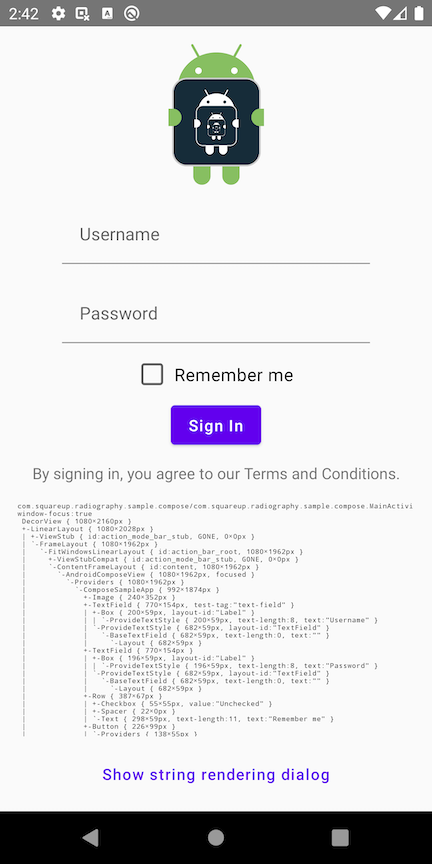
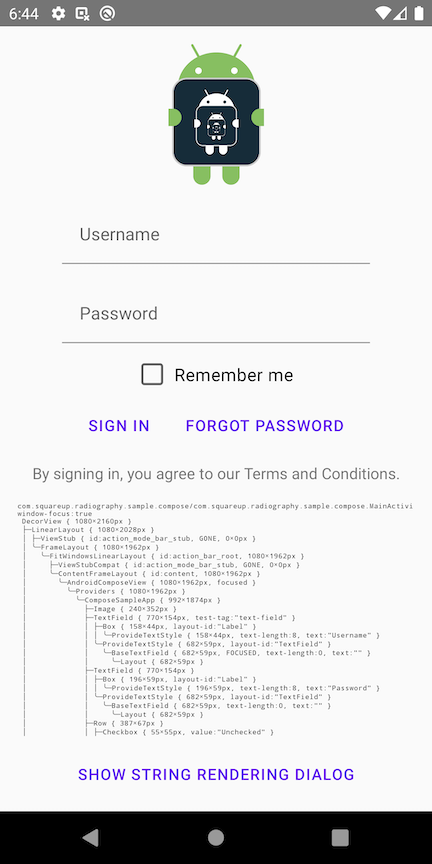
Add a ForgotPassword button, make Android sample use nested layouts instead of ConstraintLayout.
This gives more interesting output.

diff --git a/sample-compose/src/main/java/com/squareup/radiography/sample/compose/ComposeSampleApp.kt b/sample-compose/src/main/java/com/squareup/radiography/sample/compose/ComposeSampleApp.kt
@@ -19,7 +19,6 @@ import androidx.compose.foundation.layout.Spacer
 import androidx.compose.foundation.layout.height
 import androidx.compose.foundation.layout.padding
 import androidx.compose.foundation.layout.width
-import androidx.compose.material.Button
 import androidx.compose.material.Checkbox
 import androidx.compose.material.MaterialTheme
 import androidx.compose.material.TextButton
@@ -41,6 +40,7 @@ import androidx.compose.ui.text.input.PasswordVisualTransformation
 import androidx.compose.ui.unit.dp
 import androidx.compose.ui.unit.sp
 import androidx.compose.ui.viewinterop.AndroidView
+import androidx.ui.tooling.preview.Preview
 import com.squareup.radiography.sample.compose.R.drawable
 import radiography.Radiography
 import radiography.ScanScopes.FocusedWindowScope
@@ -55,6 +55,11 @@ import radiography.compose.ExperimentalRadiographyComposeApi
 
 internal const val TEXT_FIELD_TEST_TAG = "text-field"
 internal const val LIVE_HIERARCHY_TEST_TAG = "live-hierarchy"
+
+@Preview(showBackground = true, showDecoration = true)
+@Composable fun ComposeSampleAppPreview() {
+  ComposeSampleApp()
+}
 
 @OptIn(ExperimentalRadiographyComposeApi::class, ExperimentalAnimationApi::class)
 @Composable fun ComposeSampleApp() {
@@ -92,9 +97,16 @@ internal const val LIVE_HIERARCHY_TEST_TAG = "live-hierarchy"
         Spacer(Modifier.width(8.dp))
         Text("Remember me")
       }
-      Button(onClick = {}) {
-        Text("Sign In")
+
+      Row(horizontalArrangement = Arrangement.spacedBy(16.dp)) {
+        TextButton(onClick = {}) {
+          Text("SIGN IN")
+        }
+        TextButton(onClick = {}) {
+          Text("FORGOT PASSWORD")
+        }
       }
+
       // Include a classic Android view in the composition.
       AndroidView(::TextView) {
         @SuppressLint("SetTextI18n")
@@ -114,7 +126,7 @@ internal const val LIVE_HIERARCHY_TEST_TAG = "live-hierarchy"
         }
       }
       TextButton(onClick = { showSelectionDialog(context) }) {
-        Text("Show string rendering dialog")
+        Text("SHOW STRING RENDERING DIALOG")
       }
 
       onCommit {

diff --git a/README.md b/README.md
@@ -62,13 +62,15 @@ window-focus:false
  ├─LinearLayout { 1080×2028px }
  │ ├─ViewStub { id:action_mode_bar_stub, GONE, 0×0px }
  │ ╰─FrameLayout { id:content, 1080×1962px }
- │   ╰─ConstraintLayout { id:main, 1080×1962px }
+ │   ╰─LinearLayout { id:main, 1080×1962px }
  │     ├─ImageView { id:logo, 1080×352px }
- │     ├─EditText { id:username, 580×124px, text-length:4 }
- │     ├─EditText { id:password, 580×124px, focused, text-length:4, ime─target }
+ │     ├─EditText { id:username, 580×124px, text-length:0 }
+ │     ├─EditText { id:password, 580×124px, text-length:0 }
  │     ├─CheckBox { id:remember_me, 343×88px, text-length:11 }
- │     ├─Button { id:signin, 242×132px, text-length:7 }
- │     ├─Group { id:group, 0×0px }
+ │     ├─LinearLayout { 635×154px }
+ │     │ ├─Button { id:signin, 205×132px, text-length:7 }
+ │     │ ╰─Button { id:forgot_password, 430×132px, text-length:15 }
+ │     ├─View { 1080×812px }
  │     ╰─Button { id:show_dialog, 601×132px, text-length:23 }
  ├─View { id:navigationBarBackground, 1080×132px }
  ╰─View { id:statusBarBackground, 1080×66px }
@@ -203,7 +205,7 @@ fun skipLayoutIdsFilter(skipLayoutId: (Any) -> Boolean) = ViewFilter { view ->
 ![screenshot](assets/compose_sample_screenshot.png)
 
 ```
-com.squareup.radiography.sample/com.squareup.radiography.sample.MainActivity:
+com.squareup.radiography.sample.compose/com.squareup.radiography.sample.compose.MainActivity:
 window-focus:false
  DecorView { 1080×2160px }
  ├─LinearLayout { 1080×2028px }
@@ -217,35 +219,39 @@ window-focus:false
  │           ╰─ComposeSampleApp { 992×1874px }
  │             ├─Image { 240×352px }
  │             ├─TextField { 770×154px, test-tag:"text-field" }
- │             │ ├─Box { 158×44px, layout-id:"Label" }
- │             │ │ ╰─ProvideTextStyle { 158×44px, text-length:8 }
+ │             │ ├─Box { 200×59px, layout-id:"Label" }
+ │             │ │ ╰─ProvideTextStyle { 200×59px, text-length:8 }
  │             │ ╰─ProvideTextStyle { 682×59px, layout-id:"TextField" }
- │             │   ╰─BaseTextField { 682×59px, text-length:4 }
+ │             │   ╰─BaseTextField { 682×59px, text-length:0 }
  │             │     ╰─Layout { 682×59px }
  │             ├─TextField { 770×154px }
- │             │ ├─Box { 155×44px, layout-id:"Label" }
- │             │ │ ╰─ProvideTextStyle { 155×44px, text-length:8 }
+ │             │ ├─Box { 196×59px, layout-id:"Label" }
+ │             │ │ ╰─ProvideTextStyle { 196×59px, text-length:8 }
  │             │ ╰─ProvideTextStyle { 682×59px, layout-id:"TextField" }
- │             │   ╰─BaseTextField { 682×59px, text-length:4, FOCUSED }
+ │             │   ╰─BaseTextField { 682×59px, text-length:0 }
  │             │     ╰─Layout { 682×59px }
  │             ├─Row { 387×67px }
  │             │ ├─Checkbox { 55×55px, value:"Unchecked" }
  │             │ ├─Spacer { 22×0px }
  │             │ ╰─Text { 298×59px, text-length:11 }
- │             ├─Button { 226×99px }
- │             │ ╰─Providers { 138×55px }
- │             │   ╰─Text { 138×52px, text-length:7 }
+ │             ├─Row { 685×99px }
+ │             │ ├─TextButton { 199×99px }
+ │             │ │ ╰─Providers { 155×55px }
+ │             │ │   ╰─Text { 155×52px, text-length:7 }
+ │             │ ╰─TextButton { 442×99px }
+ │             │   ╰─Providers { 398×55px }
+ │             │     ╰─Text { 398×52px, text-length:15 }
  │             ├─AndroidView {  }
  │             │ ╰─ViewBlockHolder { 919×53px }
  │             │   ╰─TextView { 919×53px, text-length:53 }
- │             ├─ScrollableRow { 1320×588px }
- │             │ ╰─ScrollableColumn { 1320×821px }
- │             │   ╰─Text { 1320×821px, test-tag:"live-hierarchy", text-length:2320 }
- │             ╰─TextButton { 615×99px }
- │               ╰─Providers { 571×55px }
- │                 ╰─Text { 571×52px, text-length:28 }
+ │             ├─ScrollableRow { 1324×588px }
+ │             │ ╰─ScrollableColumn { 1324×1026px }
+ │             │   ╰─Text { 1324×1026px, test-tag:"live-hierarchy", text-length:2525 }
+ │             ╰─TextButton { 737×99px }
+ │               ╰─Providers { 693×55px }
+ │                 ╰─Text { 693×52px, text-length:28 }
  ├─View { id:navigationBarBackground, 1080×132px }
- `-View { id:statusBarBackground, 1080×66px }
+ ╰─View { id:statusBarBackground, 1080×66px }
 ```
 
 This sample can be found in the `sample-compose` directory.
